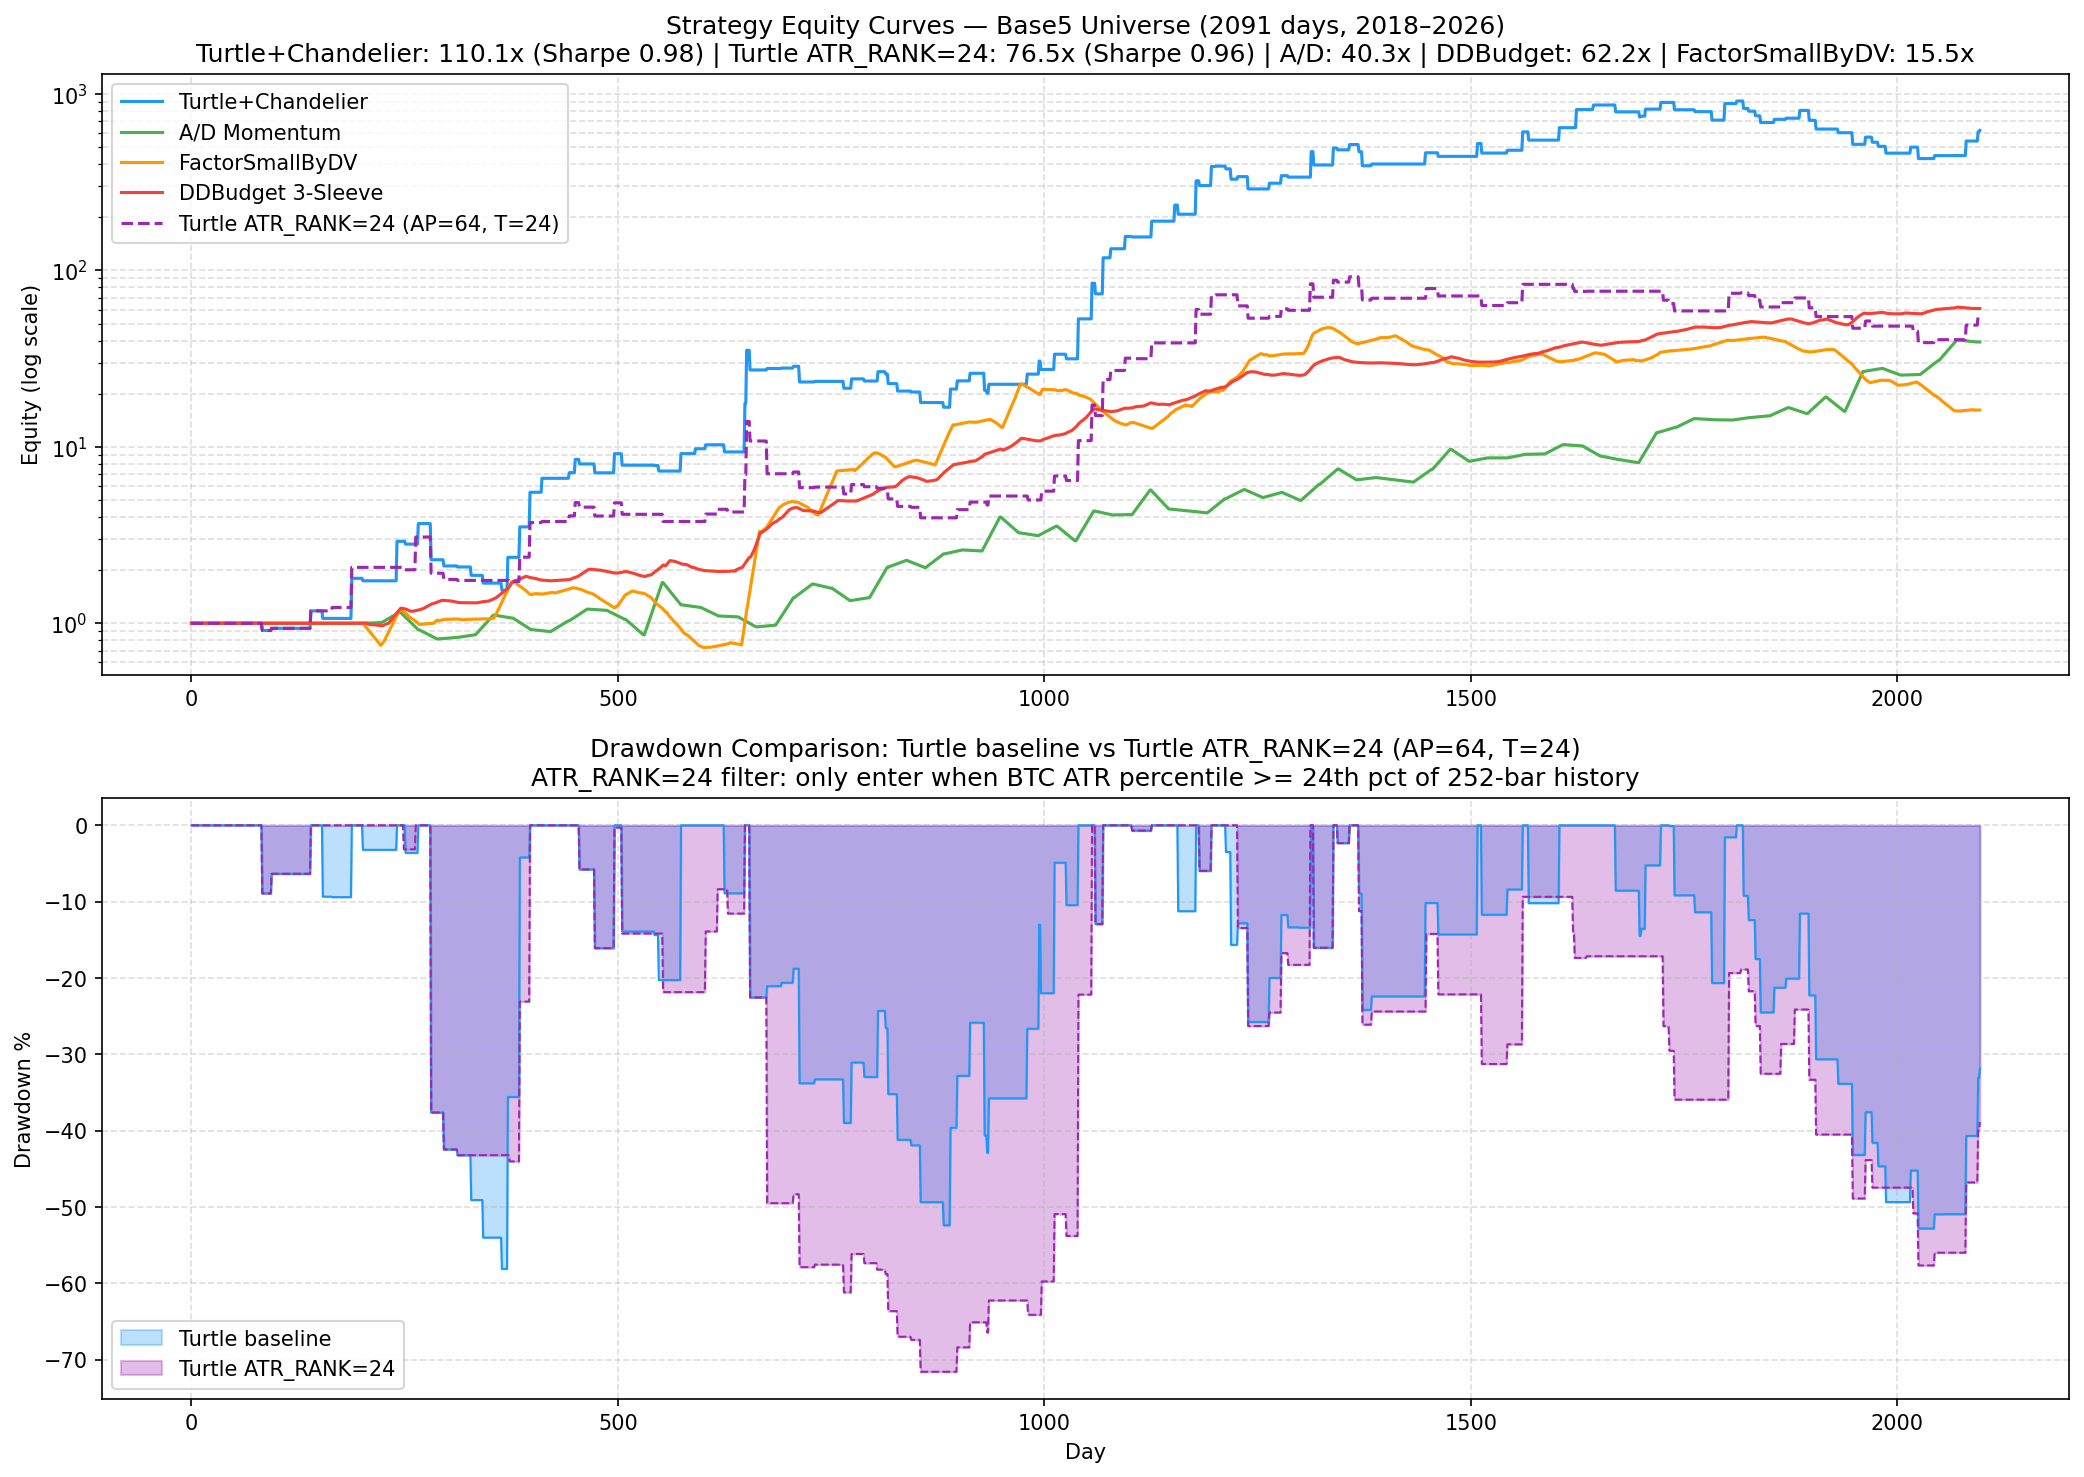
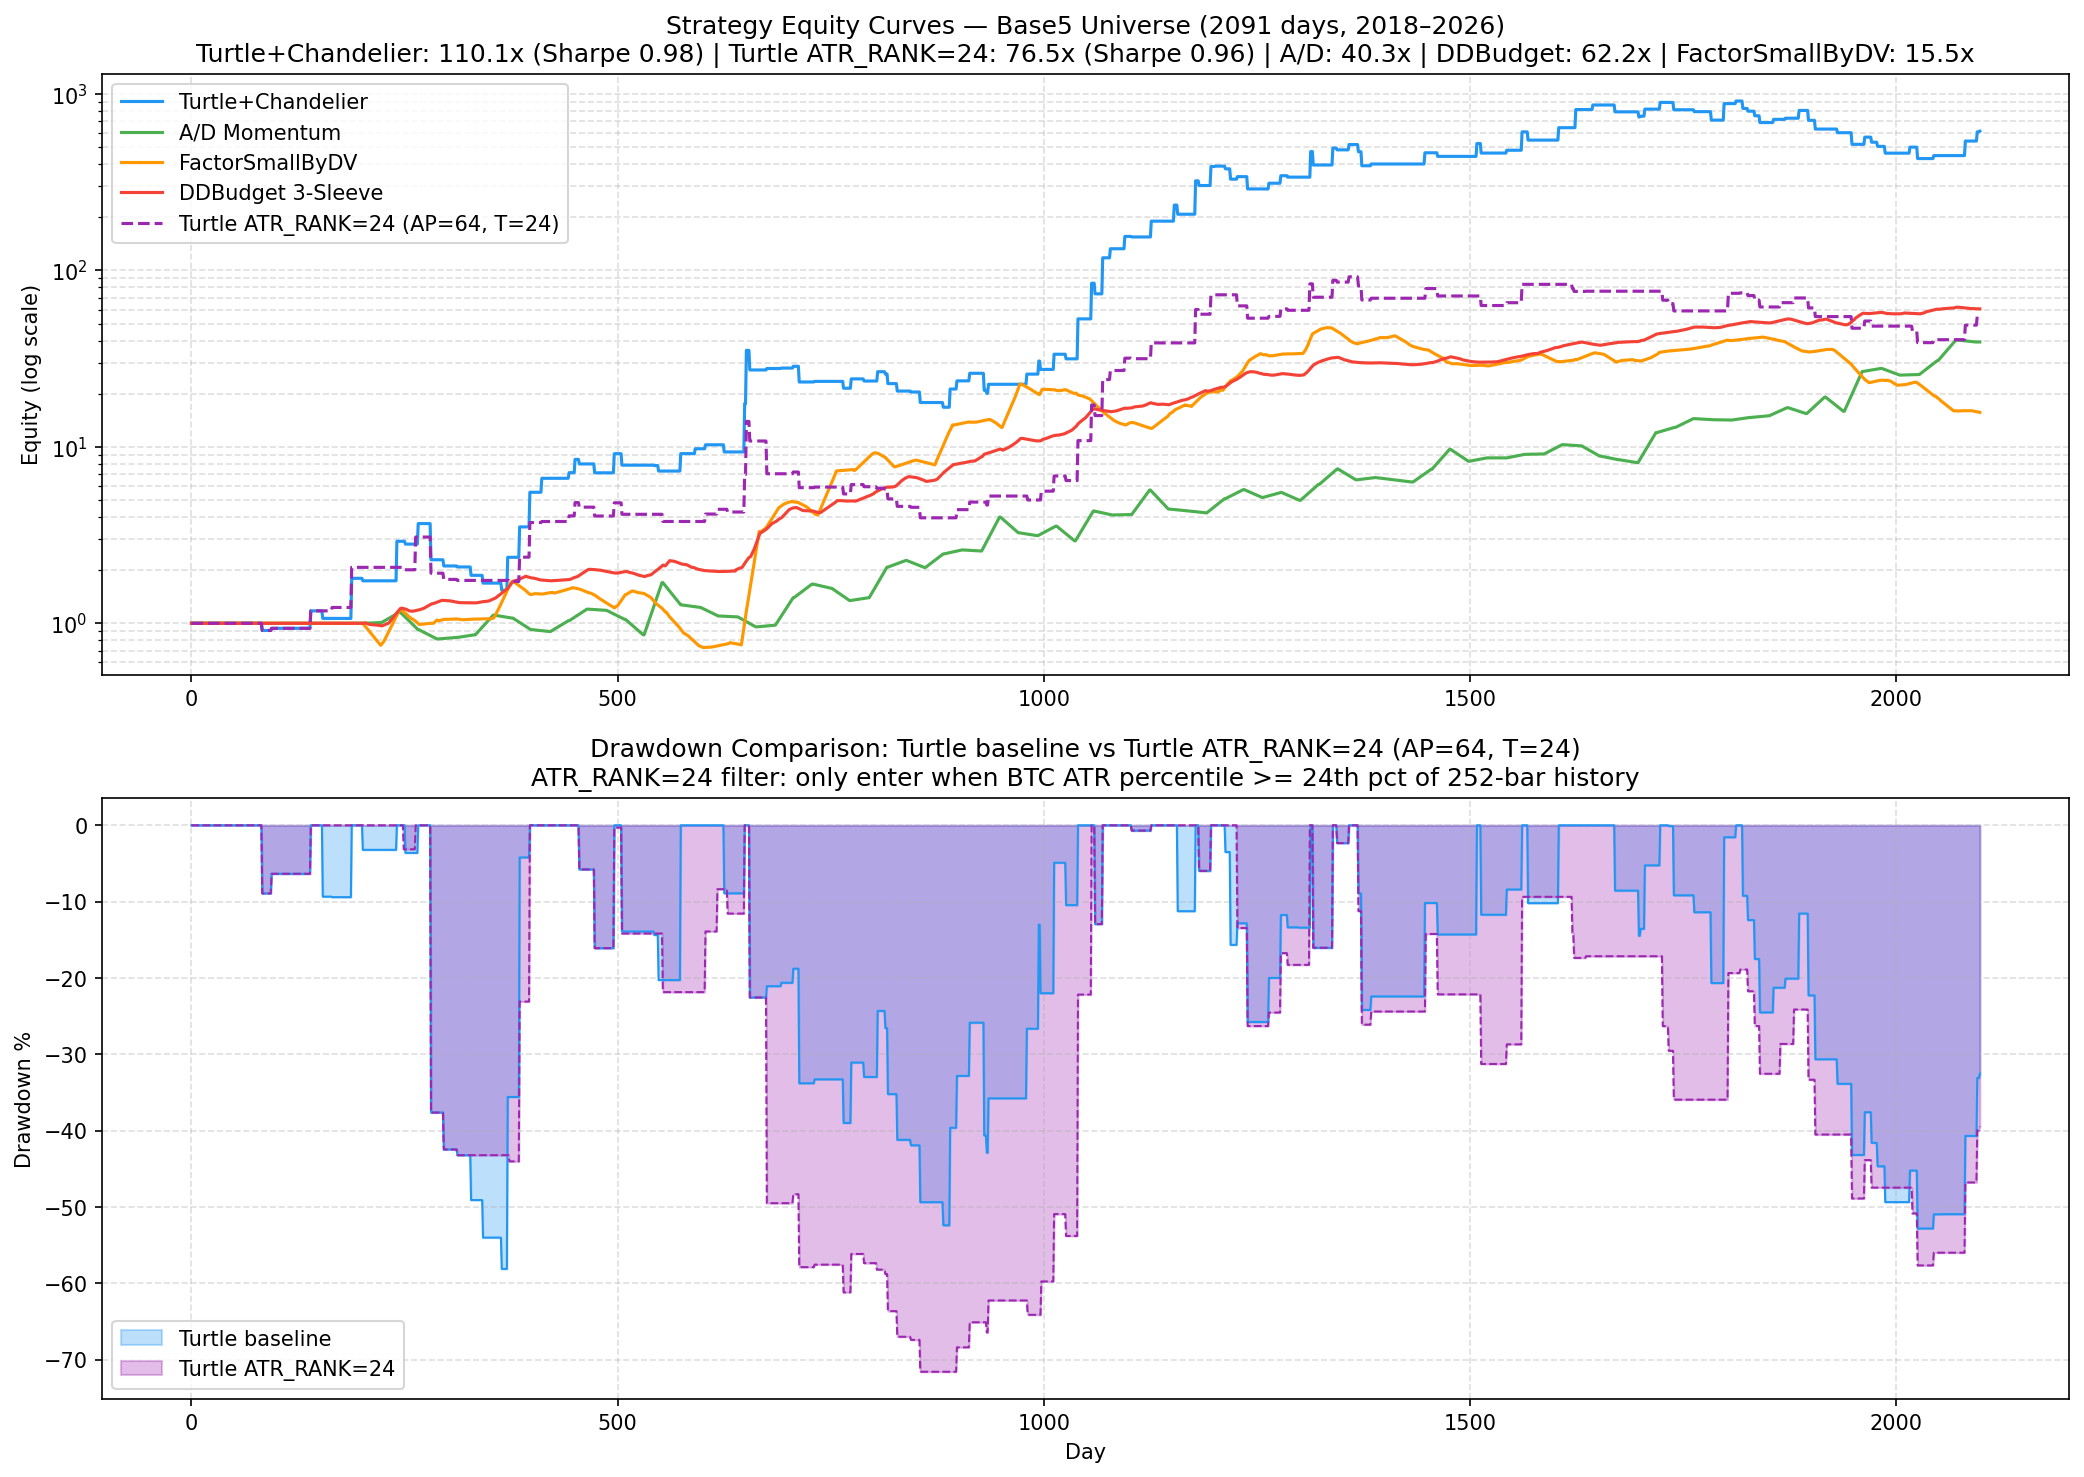
chore: daily progress tracking — 2026-05-10
Exact live: 2.76x / Sharpe 1.02 / DD 22.3% / 286 trades / 1799d
T87 ATR_MULT sweep: M=2.00 confirmed (91-value, no change)
Research: CLOSED. Live testnet BLOCKED 5+ weeks on API keys.

diff --git a/snapshots/progress_equity_curves.md b/snapshots/progress_equity_curves.md
@@ -1,13 +1,13 @@
 # Progress Equity Curves
 
-Generated: 2026-05-09 06:12:15.769073239 UTC
+Generated: 2026-05-10 02:47:39.805706412 UTC
 
 Universe: Base5 (BTCUSDT, ETHUSDT, SOLUSDT, XRPUSDT, DOGEUSDT, ADAUSDT)
 
 Final equity | Reported Sharpe:
 - A/D Momentum: 39.3x (3829.4%), Sharpe 3.57 [fixed-hold daily equity]
-- FactorSmallByDV: 16.2x (1516.3%), Sharpe 2.01 [fixed-hold daily equity]
-- DDBudget 3-Sleeve: 60.8x (5977.8%), Sharpe 7.13 [milestone-aggregated; not comparable to Turtle daily equity]
-- Turtle+Chandelier: 621.3x (62028.4%), Sharpe 1.19 [daily compounded equity; PRODUCTION CANDIDATE]
-- Turtle+ATR_RANK=24: 56.2x (5523.4%), Sharpe 0.91 [regime filter T=24; walk-forward: 52/63 pass, Sharpe 5.59, +132% ret. See snapshots/progress_equity_curves_atrrank24.md]
+- FactorSmallByDV: 15.7x (1467.6%), Sharpe 1.99 [fixed-hold daily equity]
+- DDBudget 3-Sleeve: 60.5x (5949.1%), Sharpe 7.12 [milestone-aggregated; not comparable to Turtle daily equity]
+- Turtle+Chandelier: 615.2x (61419.7%), Sharpe 1.19 [daily compounded equity; PRODUCTION CANDIDATE]
+- Turtle+ATR_RANK=24: 55.7x (5468.3%), Sharpe 0.91 [regime filter T=24; walk-forward: 52/63 pass, Sharpe 5.59, +132% ret. See snapshots/progress_equity_curves_atrrank24.md]
 [MACD+Regime & Blend excluded: 2/7 OOS pass — GRAVEYARD]

diff --git a/snapshots/live_bot_exact_equity.md b/snapshots/live_bot_exact_equity.md
@@ -1,6 +1,6 @@
 # T65: Exact Live-Bot Source-of-Truth Equity
 
-Generated: 2026-05-09 06:12 UTC
+Generated: 2026-05-10 02:47 UTC
 
 ## Scope
 
@@ -40,15 +40,15 @@ This harness replays the current `src/live/bot.rs` daily event logic over common
 
 | Metric | Value |
 |---|---:|
-| Days | 1798 |
+| Days | 1799 |
 | Final equity | 2.76x |
 | Annualised return | 22.9% |
 | Daily account Sharpe | 1.02 |
 | Max drawdown | 22.3% |
 | Trades | 286 |
 | Win rate | 46.9% |
-| Entry candidates before ATR gate | 514 |
-| ATR gate skips | 228 |
+| Entry candidates before ATR gate | 513 |
+| ATR gate skips | 227 |
 | Hedged entries | 175 |
 | Open positions liquidated at end | 0 |
 
